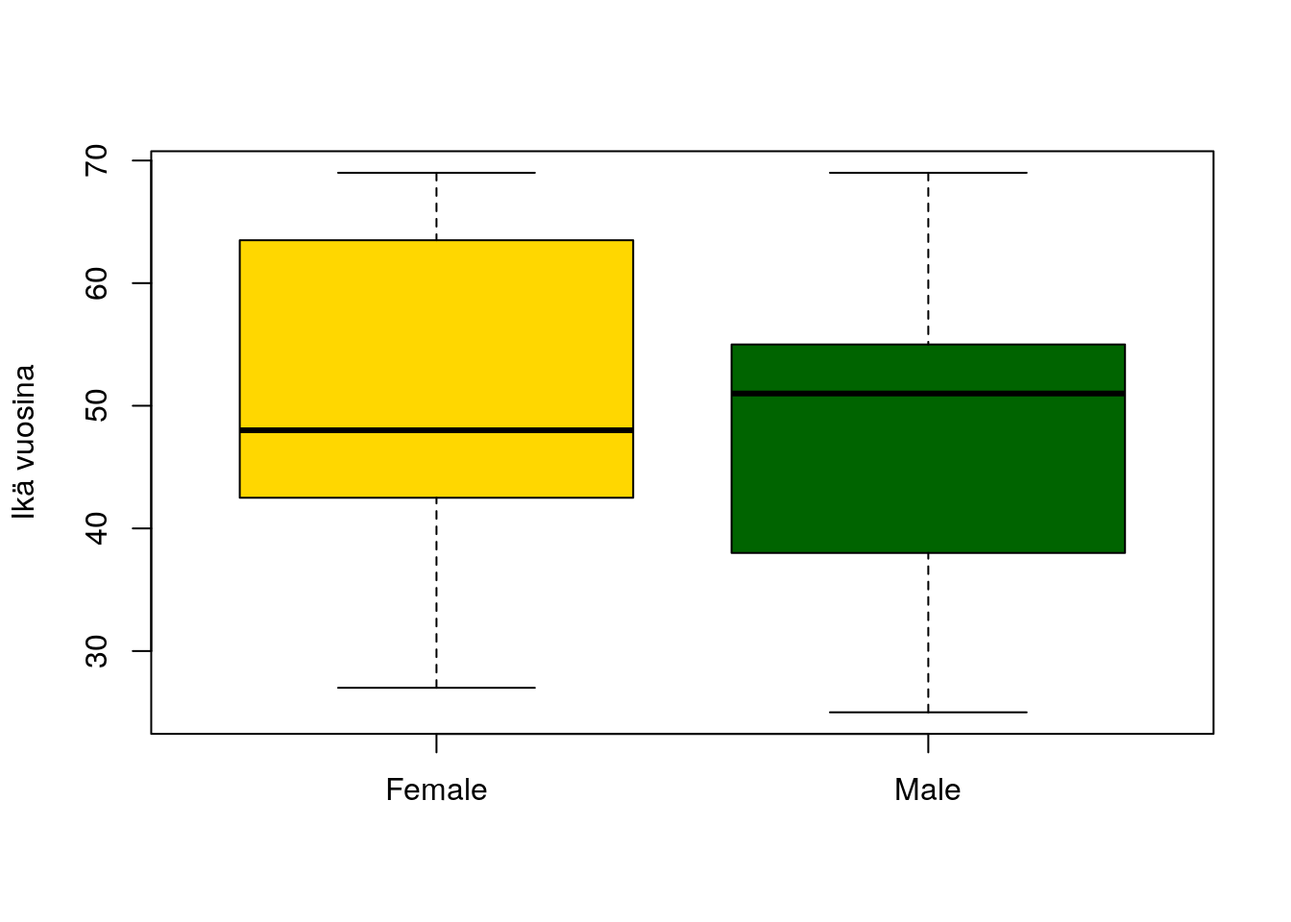
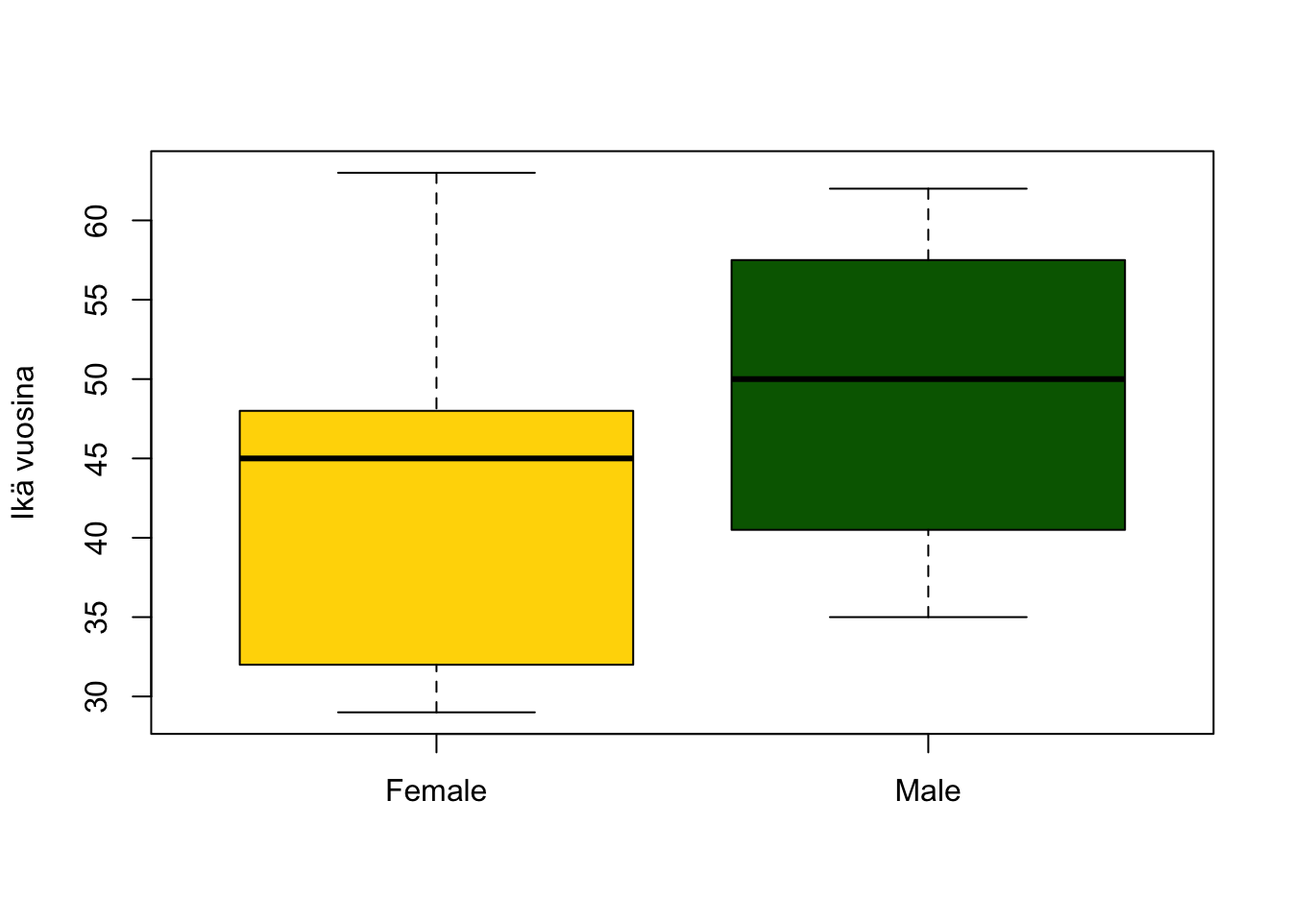
Minor fixes to texts

diff --git a/content/post/2020-10-29-hetu.fi.html b/content/post/2020-10-29-hetu.fi.html
@@ -4,9 +4,12 @@ author: Pyry Kantanen
 date: 2020-10-29
 slug: "hetu"
 categories:
+  - R package
   - R
 tags:
   - Finland
+  - national identification number
+  - personal identity code
 output:
   blogdown::html_page:
     highlight: tango
@@ -84,6 +87,7 @@ code span.wa { color: #8f5902; font-weight: bold; font-style: italic; } /* Warni
 <h2>Yleistä</h2>
 <p>Hetu-paketti on tarkoitettu suomalaisten henkilötunnusten algoritmiseen käsittelyyn. Paketista on erityisesti hyötyä, mikäli halutaan poimia informaatiota suuresta määrästä henkilötunnuksia, kuten tunnuksen haltijoiden iät tai sukupuolet. Henkilötunnusten käsittelyyn tarkoitettujen työkalujen kehitystyö alkoi osana sorvi-pakettia, mutta ne eriytettiin omaksi paketikseen vuonna 2013. Syksyllä 2020 hetu-paketti saatettiin julkaisukelpoiseen kuntoon ja se on saatavissa <a href="https://CRAN.R-project.org/package=hetu">CRANista</a>.</p>
 <p>Hetu-paketin esikuvana on toiminut <a href="https://CRAN.R-project.org/package=sweidnumbr">sweidnumbr-paketti</a> ja pakettien käyttämät funktiot on mahdollisuuksien mukaan nimetty samalla tavalla.<a href="#fn1" class="footnote-ref" id="fnref1"><sup>1</sup></a></p>
+<p>Tämä blogikirjoitus sisältää aluksi yleistietoa suomalaisista henkilötunnuksia. Pelkästään paketin toiminnoista kiinnostuneet voivat siirtyä suoraan <a href="#hetu-paketin-käyttö">käytännön esimerkkejä sisältävään osaan</a> tai tutustua hetu-paketin sisältämään vignette-ohjeeseen (komennolla ‘vignette(“hetu”)’).</p>
 </div>
 <div id="suomalainen-henkilötunnus" class="section level2">
 <h2>Suomalainen henkilötunnus</h2>
@@ -104,12 +108,12 @@ code span.wa { color: #8f5902; font-weight: bold; font-style: italic; } /* Warni
 <p>Henkilötunnuksen oikeellisuus määräytyy sen yksittäisten osien oikeellisuuden perusteella. Jos yksikin henkilötunnuksen osa on vääränlainen (esimerkiksi päivämäärä on muotoa 30/02/01 tai yksilönumero on 000 tai 001), henkilötunnuksessa on jonkinlainen virhe ja sen sisältämien tietojen luotettavuudesta ei voida olla varmoja. Käyttäjä voi halutessaan tulostaa hetu_diagnostic -funktiota käyttämällä diagnostisia tietoja henkilötunnusten yksittäisten osien, kuten päivämäärän, vuosisadan merkin, yksilönumeron, tarkistenumeron, tunnuksen pituuden ym. oikeellisuudesta.</p>
 <p>Hetu-paketti mahdollistaa satunnaisesti muodostettujen, tietylle aikavälille osuvien henkilötunnusten generoimisen rhetu-funktiolla. Paketin toiminnallisuuksien testaaminen onnistuu helposti ilman oikeilta ihmisiltä kerättyä aineistoa. Rhetu-funktio mahdollistaa myös ns. keinotekoisten tai väliaikaisten hetujen generoimisen. Keinotekoisia henkilötunnuksia on toisinaan myönnetty organisaatiokohtaisesti henkilöille, joilla ei ole ollut pysyvää suomalaista henkilötunnusta tai joiden henkilöllisyyttä ei ole pystytty varmentamaan. Keinotekoiset henkilötunnukset eroavat varsinaisista henkilötunnuksista siten, että niiden yksilönumero on välillä 900-999. Keinotekoisten henkilötunnusten generoiminen saattaa olla hyödyllistä, mikäli halutaan varmistua että aineistossa ei vahingossakaan ole aitoja henkilötunnuksia.</p>
 <p>Henkilötunnuksesta poimittua tietoa voidaan käyttää myös validoimaan ihmisten itse ilmoittamaa tietoa. Rhetu-funktio tuottaa pelkästään valideja henkilötunnuksia, mutta todellisessa aineistossa henkilötunnuksen kirjaamisessa tai tallentamisessa on saattanut tapahtua näppäily- tai lukuvirheitä. Hetu-pakettia voidaankin käyttää validoimaan ihmisistä tallennettujen tietojen laatua tai tehdä vertailua käyttäjien ilmoittamien syntymäaikojen ja henkilötunnuksen syntymäajan välillä.</p>
-<p>Suomalaisen henkilötunnuksen tarkistusmerkki on erilaisten lyöntivirheiden kannalta vikaherkkä. Esimerkiksi päivien, kuukausien ja vuosien järjestyksen vaihtuminen tai päivämäärän väärin merkitsemisen tarkistusmerkin pysyessä samana saa sen, että henkilötunnus ei enää mene läpi tarkistuksessa. Esimerkiksi ruotsalaisen henkilötunnuksen tapauksessa päivien ja kuukausien järjestyksen vaihtuminen ei vaikuta tarkistusmerkin laskentaan.</p>
-<div id="käytännön-esimerkkejä" class="section level3">
-<h3>Käytännön esimerkkejä</h3>
-<p>Paketin asentaminen R-ympäristöön:</p>
+<p>Suomalaisen henkilötunnuksen tarkistusmerkki on erilaisten lyöntivirheiden kannalta vikaherkkä. Esimerkiksi päivien, kuukausien ja vuosien järjestyksen vaihtuminen tai päivämäärän väärin merkitsemisen tarkistusmerkin pysyessä samana saa sen, että henkilötunnus ei enää mene läpi tarkistuksessa. Esimerkiksi ruotsalaisen henkilötunnuksen tapauksessa päivien ja kuukausien järjestyksen vaihtuminen ei vaikuta tarkistusmerkin laskentaan.<a href="#fn4" class="footnote-ref" id="fnref4"><sup>4</sup></a></p>
+<div id="hetu-paketin-käyttö" class="section level3">
+<h3>Hetu-paketin käyttö</h3>
+<p>Paketin asentaminen R-ympäristöön CRANista:</p>
 <div class="sourceCode" id="cb1"><pre class="sourceCode r"><code class="sourceCode r"><span id="cb1-1"><a href="#cb1-1" aria-hidden="true" tabindex="-1"></a><span class="fu">install.packages</span>(<span class="st">&quot;hetu&quot;</span>)</span></code></pre></div>
-<p>Paketin lataaminen kirjastoon ja 2 yksikön pituisen esimerkkivektorin asettaminen onnistuu seuraavanlaisesti:</p>
+<p>Paketin lataaminen kirjastoon ja 2 henkilötunnusta sisältävän esimerkkivektorin asettaminen:</p>
 <div class="sourceCode" id="cb2"><pre class="sourceCode r"><code class="sourceCode r"><span id="cb2-1"><a href="#cb2-1" aria-hidden="true" tabindex="-1"></a><span class="fu">library</span>(hetu)</span>
 <span id="cb2-2"><a href="#cb2-2" aria-hidden="true" tabindex="-1"></a>example_pins <span class="ot">&lt;-</span> <span class="fu">c</span>(<span class="st">&quot;010101-0101&quot;</span>, <span class="st">&quot;111111-111C&quot;</span>)</span></code></pre></div>
 <p>Perustietojen tarkastelu hetuja sisältävästä vektorista onnistuu yksinkertaisesti hetu-komennolla, joka tulostaa perusmuodossa data frame -tyyppisen taulukon. Taulukko on tässä esimerkissä muotoiltu hieman kauniimmaksi kable-funktiolla:</p>
@@ -181,20 +185,20 @@ code span.wa { color: #8f5902; font-weight: bold; font-style: italic; } /* Warni
 <div class="sourceCode" id="cb18"><pre class="sourceCode r"><code class="sourceCode r"><span id="cb18-1"><a href="#cb18-1" aria-hidden="true" tabindex="-1"></a>example_pins2 <span class="ot">&lt;-</span> <span class="fu">rhetu</span>(<span class="dv">5</span>, <span class="at">start =</span> <span class="st">&quot;1950-01-01&quot;</span>, <span class="at">end =</span> <span class="st">&quot;1995-05-07&quot;</span>)</span>
 <span id="cb18-2"><a href="#cb18-2" aria-hidden="true" tabindex="-1"></a><span class="co"># Ikä vuosina</span></span>
 <span id="cb18-3"><a href="#cb18-3" aria-hidden="true" tabindex="-1"></a><span class="fu">hetu_age</span>(example_pins2)</span></code></pre></div>
-<pre><code>## The age in years has been calculated at 2020-11-10.</code></pre>
-<pre><code>## [1] 27 66 46 49 33</code></pre>
+<pre><code>## The age in years has been calculated at 2020-11-24.</code></pre>
+<pre><code>## [1] 69 69 49 64 40</code></pre>
 <div class="sourceCode" id="cb21"><pre class="sourceCode r"><code class="sourceCode r"><span id="cb21-1"><a href="#cb21-1" aria-hidden="true" tabindex="-1"></a><span class="co"># Ikä kuukasina</span></span>
 <span id="cb21-2"><a href="#cb21-2" aria-hidden="true" tabindex="-1"></a><span class="fu">hetu_age</span>(example_pins2, <span class="at">timespan =</span> <span class="st">&quot;months&quot;</span>)</span></code></pre></div>
-<pre><code>## The age in months has been calculated at 2020-11-10.</code></pre>
-<pre><code>## [1] 324 801 560 598 399</code></pre>
+<pre><code>## The age in months has been calculated at 2020-11-24.</code></pre>
+<pre><code>## [1] 831 829 598 769 489</code></pre>
 <div class="sourceCode" id="cb24"><pre class="sourceCode r"><code class="sourceCode r"><span id="cb24-1"><a href="#cb24-1" aria-hidden="true" tabindex="-1"></a><span class="co"># Minkä ikäisiä hetujen omistajat olivat 2011 puolivälissä?</span></span>
 <span id="cb24-2"><a href="#cb24-2" aria-hidden="true" tabindex="-1"></a><span class="fu">hetu_age</span>(example_pins2, <span class="at">date =</span> <span class="st">&quot;2011-01-01&quot;</span>)</span></code></pre></div>
 <pre><code>## The age in years has been calculated at 2011-01-01.</code></pre>
-<pre><code>## [1] 17 56 36 39 23</code></pre>
+<pre><code>## [1] 59 59 39 54 30</code></pre>
 <div class="sourceCode" id="cb27"><pre class="sourceCode r"><code class="sourceCode r"><span id="cb27-1"><a href="#cb27-1" aria-hidden="true" tabindex="-1"></a><span class="co"># Visualisointi: laatikkojanakuvaaja sukupuolen mukaan ryhmiteltynä</span></span>
 <span id="cb27-2"><a href="#cb27-2" aria-hidden="true" tabindex="-1"></a>example_pins3 <span class="ot">&lt;-</span> <span class="fu">rhetu</span>(<span class="dv">20</span>, <span class="at">start =</span> <span class="st">&quot;1950-01-01&quot;</span>, <span class="at">end =</span> <span class="st">&quot;1995-05-07&quot;</span>, <span class="at">p.male =</span> <span class="fl">0.5</span>)</span>
 <span id="cb27-3"><a href="#cb27-3" aria-hidden="true" tabindex="-1"></a><span class="fu">boxplot</span>(<span class="fu">hetu_age</span>(example_pins3)<span class="sc">~</span><span class="fu">hetu_sex</span>(example_pins3), <span class="at">xlab =</span> <span class="st">&quot;&quot;</span>, <span class="at">ylab =</span> <span class="st">&quot;Ikä vuosina&quot;</span>, <span class="at">col=</span><span class="fu">c</span>(<span class="st">&quot;gold&quot;</span>, <span class="st">&quot;darkgreen&quot;</span>))</span></code></pre></div>
-<pre><code>## The age in years has been calculated at 2020-11-10.</code></pre>
+<pre><code>## The age in years has been calculated at 2020-11-24.</code></pre>
 <p><img src="/post/2020-10-29-hetu.fi_files/figure-html/unnamed-chunk-4-1.png" width="672" /></p>
 <p>Joissakin tapauksissa voi olla hyödyllistä tarkastella epävalidien hetujen diagnostiikkatietoa. Tiedot saadaan hetu_diagnostic -funktion avulla, jota demonstroimme monella tavalla virheellisen henkilötunnuksen avulla:</p>
 <div class="sourceCode" id="cb29"><pre class="sourceCode r"><code class="sourceCode r"><span id="cb29-1"><a href="#cb29-1" aria-hidden="true" tabindex="-1"></a><span class="fu">hetu_diagnostic</span>(<span class="st">&quot;321399-000G&quot;</span>)</span></code></pre></div>
@@ -210,22 +214,22 @@ code span.wa { color: #8f5902; font-weight: bold; font-style: italic; } /* Warni
 </div>
 <div id="yritys--ja-yhteisötunnusten-y-tunnus-käsittely" class="section level2">
 <h2>Yritys- ja yhteisötunnusten (Y-tunnus) käsittely</h2>
-<p>Hetu-paketissa on myös sweidnumbr-pakettia vastaavalla tavalla mahdollisuus generoida ja validoida suomalaisia yritys- ja yhteisötunnuksia. Suomalainen Y-tunnus koostuu seitsemästä numerosta, väliviivasta ja tarkistusmerkistä ja on muotoa 1234567-8.<a href="#fn4" class="footnote-ref" id="fnref4"><sup>4</sup></a> Y-tunnus on englanniksi Business Identity Code, mistä johtuen tässä paketissa y-tunnusten käsittelyyn tarkoitettujen funktioiden etuliitteenä käytetään lyhennettä bid:</p>
+<p>Hetu-paketissa on myös sweidnumbr-pakettia vastaavalla tavalla mahdollisuus generoida ja validoida suomalaisia yritys- ja yhteisötunnuksia. Suomalainen Y-tunnus koostuu seitsemästä numerosta, väliviivasta ja tarkistusmerkistä ja on muotoa 1234567-8.<a href="#fn5" class="footnote-ref" id="fnref5"><sup>5</sup></a> Y-tunnus on englanniksi Business Identity Code, mistä johtuen tässä paketissa y-tunnusten käsittelyyn tarkoitettujen funktioiden etuliitteenä käytetään lyhennettä bid:</p>
 <ul>
 <li>bid_ctrl(bid): tarkastaa y-tunnuksen oikeellisuuden, TRUE tai FALSE</li>
 <li>rbid(n): generoi n kappaletta y-tunnuksia</li>
 </ul>
 <div class="sourceCode" id="cb33"><pre class="sourceCode r"><code class="sourceCode r"><span id="cb33-1"><a href="#cb33-1" aria-hidden="true" tabindex="-1"></a>example_bids <span class="ot">&lt;-</span> <span class="fu">rbid</span>(<span class="dv">2</span>)</span>
 <span id="cb33-2"><a href="#cb33-2" aria-hidden="true" tabindex="-1"></a>example_bids</span></code></pre></div>
-<pre><code>## [1] &quot;2339722-3&quot; &quot;8805017-5&quot;</code></pre>
+<pre><code>## [1] &quot;4483397-9&quot; &quot;7613022-3&quot;</code></pre>
 <div class="sourceCode" id="cb35"><pre class="sourceCode r"><code class="sourceCode r"><span id="cb35-1"><a href="#cb35-1" aria-hidden="true" tabindex="-1"></a><span class="fu">bid_ctrl</span>(example_bids)</span></code></pre></div>
 <pre><code>## [1] TRUE TRUE</code></pre>
 <p>Toisin kuin henkilötunnusten tapauksessa, y-tunnuksista ei voida poimia mitään muuta lisäinformaatiota, esimerkiksi yrityksen perustamisajankohtaan tai toimialaan liittyen.</p>
 </div>
 <div id="henkilötunnusten-tulevaisuus-ja-tietoturvallisuus" class="section level2">
 <h2>Henkilötunnusten tulevaisuus ja tietoturvallisuus</h2>
-<p>Henkilötunnusten uudistamisesta on käyty viime vuosina runsaasti julkista keskustelua. Nykymuotoisen henkilötunnuksen ongelmana on pidetty esimerkiksi henkilötunnusten rajallista määrää sekä sitä, että henkilötunnuksesta ilmenee henkilötietoja kuten sukupuoli ja ikä. Toisaalta uudistusta vastaan puhuu julkisen ja yksityisen sektorin toimijoiden tietojärjestelmien päivitysten korkeat kustannukset. Kirjoitushetkellä tuoreimman ehdotuksen mukaan henkilötunnukset olisivat säilymässä tulevaisuudessakin muodoltaan nykyisiä vastaavina sillä erotuksella, että jatkossa vapaana olevat parilliset ja parittomat yksilönumerot jaettaisiin tasaisesti molemmille sukupuolille.<a href="#fn5" class="footnote-ref" id="fnref5"><sup>5</sup></a> <a href="#fn6" class="footnote-ref" id="fnref6"><sup>6</sup></a></p>
-<p>Tietosuojaperiaatteen mukaan henkilötietoja tulisi kerätä ja käsitellä ainoastaan siinä laajuudessa, mikä on tarkoituksenmukaista tai välttämätöntä palvelun käyttötarkoituksen kannalta.<a href="#fn7" class="footnote-ref" id="fnref7"><sup>7</sup></a> Tätä taustaa vasten voidaan pitää ongelmallisena, että henkilötunnusten laajamittainen käyttö aiheuttaa vähintäänkin epäsuorasti tilanteen, jossa palvelun tarjoajalla on usein tarpeettomasti hallussaan tietoa käyttäjien iästä ja sukupuolesta.</p>
+<p>Henkilötunnusten uudistamisesta on käyty viime vuosina runsaasti julkista keskustelua. Nykymuotoisen henkilötunnuksen ongelmana on pidetty esimerkiksi henkilötunnusten rajallista määrää sekä sitä, että henkilötunnuksesta ilmenee henkilötietoja kuten sukupuoli ja ikä. Toisaalta uudistusta vastaan puhuu julkisen ja yksityisen sektorin toimijoiden tietojärjestelmien päivitysten korkeat kustannukset. Kirjoitushetkellä tuoreimman ehdotuksen mukaan henkilötunnukset olisivat säilymässä tulevaisuudessakin muodoltaan nykyisiä vastaavina sillä erotuksella, että jatkossa vapaana olevat parilliset ja parittomat yksilönumerot jaettaisiin tasaisesti molemmille sukupuolille.<a href="#fn6" class="footnote-ref" id="fnref6"><sup>6</sup></a> <a href="#fn7" class="footnote-ref" id="fnref7"><sup>7</sup></a></p>
+<p>Tietosuojaperiaatteen mukaan henkilötietoja tulisi kerätä ja käsitellä ainoastaan siinä laajuudessa, mikä on tarkoituksenmukaista tai välttämätöntä palvelun käyttötarkoituksen kannalta.<a href="#fn8" class="footnote-ref" id="fnref8"><sup>8</sup></a> Tätä taustaa vasten voidaan pitää ongelmallisena, että henkilötunnusten laajamittainen käyttö aiheuttaa vähintäänkin epäsuorasti tilanteen, jossa palvelun tarjoajalla on usein tarpeettomasti hallussaan tietoa käyttäjien iästä ja sukupuolesta.</p>
 <p>Käytännössä suuremmat ongelmat koituvat ihmisille kuitenkin tavasta, jolla henkilötunnuksia käytetään suomalaisessa yhteiskunnassa. Vaikka henkilötunnus ei teoriassa ole salassapidettävää tietoa, rikollisella tai muutoin vilpillisellä tavalla toimiva henkilö voi aiheuttaa monenlaista haittaa, mikäli hän saa haltuunsa toisen ihmisen henkilötunnuksen. Henkilötunnusta on saatettu kysyä puhelimitse asioivalta henkilöltä henkilöllisyyden varmistukseksi, ennen kuin hänelle on kerrottu sensitiivisiä potilastietoja. Joskus henkilötunnus saatetaan asettaa verkkopalvelussa uuden käyttäjän ensimmäiseksi salasanaksi, joka jokaisen pitäisi muistaa vaihtaa ensimmäisen kirjautumiskerran jälkeen. On itsestään selvää, että tällaiset käytännöt eivät ole yksilöiden tietosuojan kannalta hyödyllisiä.</p>
 <p>Henkilötunnusten epätarkoituksenmukainen käyttö julkisella ja yksityisellä sektorilla on varmasti osaltaan vaikuttanut kansalaisten keskuudessa syntyneisiin käsityksiin henkilötunnusten luonteesta ja tarkoituksesta. Olisi toivottavaa, että viimeistään syksyn 2020 tietovuodot toimisivat sysäyksenä tietoturvallisempien käytäntöjen käyttöönottoon kaikkialla yhteiskunnassa.</p>
 </div>
@@ -235,12 +239,13 @@ code span.wa { color: #8f5902; font-weight: bold; font-style: italic; } /* Warni
 <div class="footnotes">
 <hr />
 <ol>
-<li id="fn1"><p>Lisätietoja sweidnumbr-paketista esim. tästä blogikirjoituksesta: Magnusson, Måns &amp; Bülow, Erik. 2015. R made personal (at least for swedes)!. URL: <a href="http://ropengov.org/2015/08/r-made-personal-at-least-for-swedes/" class="uri">http://ropengov.org/2015/08/r-made-personal-at-least-for-swedes/</a><a href="#fnref1" class="footnote-back">↩</a></p></li>
+<li id="fn1"><p>Lisätietoja sweidnumbr-paketista esim. tästä blogikirjoituksesta: Magnusson, Måns &amp; Bülow, Erik. 2015. R made personal (at least for swedes)!. URL: <a href="https://ropengov.org/2015/08/r-made-personal-at-least-for-swedes/" class="uri">https://ropengov.org/2015/08/r-made-personal-at-least-for-swedes/</a><a href="#fnref1" class="footnote-back">↩</a></p></li>
 <li id="fn2"><p>Digi- ja väestötietovirasto. Henkilötunnus. URL: <a href="https://dvv.fi/henkilotunnus" class="uri">https://dvv.fi/henkilotunnus</a><a href="#fnref2" class="footnote-back">↩</a></p></li>
 <li id="fn3"><p>Ks. esim. Finlex. HE 59/2013. URL: <a href="https://www.finlex.fi/fi/esitykset/he/2013/20130059" class="uri">https://www.finlex.fi/fi/esitykset/he/2013/20130059</a><a href="#fnref3" class="footnote-back">↩</a></p></li>
-<li id="fn4"><p>Yritys- ja yhteisötietojärjestelmä. Y-tunnus. URL: <a href="https://www.ytj.fi/index/y-tunnus.html" class="uri">https://www.ytj.fi/index/y-tunnus.html</a><a href="#fnref4" class="footnote-back">↩</a></p></li>
-<li id="fn5"><p>Tuomas Salsteen nettisivuilta löytyy hyvä selvitys henkilötunnuksen historiasta, ongelmakohdista että uudistustyöryhmän kehitysehdotuksista. URL: <a href="https://www.tuomas.salste.net/doc/hetu/tunnus.html" class="uri">https://www.tuomas.salste.net/doc/hetu/tunnus.html</a>.<a href="#fnref5" class="footnote-back">↩</a></p></li>
-<li id="fn6"><p>Yle Uutiset. 2020. Uusi henkilötunnus kaikille Suomen kansalaisille ja Suomessa asuville, ehdottaa työryhmä – jatkossa tunnuksesta ei selviäisi ikä, syntymäaika tai sukupuoli. Julkaistu 8.4.2020, viitattu 23.10.2020. URL: <a href="https://yle.fi/uutiset/3-11299218" class="uri">https://yle.fi/uutiset/3-11299218</a><a href="#fnref6" class="footnote-back">↩</a></p></li>
-<li id="fn7"><p>Tietosuojavaltuutetun toimisto. Käyttötarkoitussidonnaisuus. Viitattu 26.10.2020. <a href="https://tietosuoja.fi/kayttotarkoitussidonnaisuus" class="uri">https://tietosuoja.fi/kayttotarkoitussidonnaisuus</a><a href="#fnref7" class="footnote-back">↩</a></p></li>
+<li id="fn4"><p>Teppo Vuoren nettisivuilta löytyy kattavasti erilaisten tarkistusmerkkien laskentamenetelmien kuvaukset: <a href="https://tarkistusmerkit.teppovuori.fi/tarkmerk.htm" class="uri">https://tarkistusmerkit.teppovuori.fi/tarkmerk.htm</a><a href="#fnref4" class="footnote-back">↩</a></p></li>
+<li id="fn5"><p>Yritys- ja yhteisötietojärjestelmä. Y-tunnus. URL: <a href="https://www.ytj.fi/index/y-tunnus.html" class="uri">https://www.ytj.fi/index/y-tunnus.html</a><a href="#fnref5" class="footnote-back">↩</a></p></li>
+<li id="fn6"><p>Tuomas Salsteen nettisivuilta löytyy hyvä selvitys henkilötunnuksen historiasta, ongelmakohdista että uudistustyöryhmän kehitysehdotuksista. URL: <a href="https://www.tuomas.salste.net/doc/hetu/tunnus.html" class="uri">https://www.tuomas.salste.net/doc/hetu/tunnus.html</a>.<a href="#fnref6" class="footnote-back">↩</a></p></li>
+<li id="fn7"><p>Yle Uutiset. 2020. Uusi henkilötunnus kaikille Suomen kansalaisille ja Suomessa asuville, ehdottaa työryhmä – jatkossa tunnuksesta ei selviäisi ikä, syntymäaika tai sukupuoli. Julkaistu 8.4.2020, viitattu 23.10.2020. URL: <a href="https://yle.fi/uutiset/3-11299218" class="uri">https://yle.fi/uutiset/3-11299218</a><a href="#fnref7" class="footnote-back">↩</a></p></li>
+<li id="fn8"><p>Tietosuojavaltuutetun toimisto. Käyttötarkoitussidonnaisuus. Viitattu 26.10.2020. <a href="https://tietosuoja.fi/kayttotarkoitussidonnaisuus" class="uri">https://tietosuoja.fi/kayttotarkoitussidonnaisuus</a><a href="#fnref8" class="footnote-back">↩</a></p></li>
 </ol>
 </div>

diff --git a/content/post/2020-10-29-hetu.en.html b/content/post/2020-10-29-hetu.en.html
@@ -4,9 +4,12 @@ author: Pyry Kantanen
 date: 2020-10-29
 slug: "hetu"
 categories:
+  - R package
   - R
 tags:
   - Finland
+  - national identification number
+  - personal identity code
 output:
   blogdown::html_page:
     highlight: tango
@@ -93,22 +96,22 @@ code span.wa { color: #8f5902; font-weight: bold; font-style: italic; } /* Warni
 </div>
 <div id="algorithmic-handling-of-hetu-pins" class="section level2">
 <h2>Algorithmic handling of hetu-pins</h2>
-<p>Analyzing and extracting Finnish personal identity numbers is rather straightforward even with a naked eye. However, hetu-package is best suited for handling large number of PINs, which would be cumbersome by hand.</p>
-<p>Hetu-package can extract the following information from hundreds of thousands of PINs:</p>
+<p>Analyzing and extracting information from Finnish personal identity numbers is rather straightforward even with a naked eye. Hetu-package naturally excels in handling large number of PINs, which would be cumbersome otherwise.</p>
+<p>Hetu-package has functions to extract the following information:</p>
 <ul>
 <li>hetu_date / pin_date: date of birth</li>
 <li>hetu_sex / pin_sex: sex, Male or Female</li>
 <li>hetu_age / pin_age: age in years, months or days (at the time of the query or at a desired date)</li>
 <li>hetu_ctrl / pin_ctrl: validity check for the PIN, TRUE or FALSE</li>
 </ul>
-<div id="practical-examples" class="section level3">
-<h3>Practical examples</h3>
-<p>Installing the package in R:</p>
+<div id="use-of-hetu-package" class="section level3">
+<h3>Use of hetu-package</h3>
+<p>Installing the package in R from CRAN:</p>
 <div class="sourceCode" id="cb1"><pre class="sourceCode r"><code class="sourceCode r"><span id="cb1-1"><a href="#cb1-1" aria-hidden="true" tabindex="-1"></a><span class="fu">install.packages</span>(<span class="st">&quot;hetu&quot;</span>)</span></code></pre></div>
-<p>Loading the package and setting a few imaginary example PINs:</p>
+<p>Loading the package and setting a few imaginary PINs for testing:</p>
 <div class="sourceCode" id="cb2"><pre class="sourceCode r"><code class="sourceCode r"><span id="cb2-1"><a href="#cb2-1" aria-hidden="true" tabindex="-1"></a><span class="fu">library</span>(hetu)</span>
 <span id="cb2-2"><a href="#cb2-2" aria-hidden="true" tabindex="-1"></a>example_pins <span class="ot">&lt;-</span> <span class="fu">c</span>(<span class="st">&quot;010101-0101&quot;</span>, <span class="st">&quot;111111-111C&quot;</span>)</span></code></pre></div>
-<p>Hetu-function is the backbone of the package and lots of information can be extracted in data frame format:</p>
+<p>Hetu-function is the backbone of the package and majority of the information that can be extracted is available as a simple data frame:</p>
 <div class="sourceCode" id="cb3"><pre class="sourceCode r"><code class="sourceCode r"><span id="cb3-1"><a href="#cb3-1" aria-hidden="true" tabindex="-1"></a>knitr<span class="sc">::</span><span class="fu">kable</span>(<span class="fu">hetu</span>(example_pins))</span></code></pre></div>
 <table>
 <thead>
@@ -152,7 +155,7 @@ code span.wa { color: #8f5902; font-weight: bold; font-style: italic; } /* Warni
 </tr>
 </tbody>
 </table>
-<p>The information in the data frame can be extracted with extract-parameter or, for the convenience of the end user, by using specialized functions:</p>
+<p>There are several alternatives in extracting specific information about a group of PINs, for example date of birth. If the output of the hetu-function is saved as an object, all columns can be normally subsetted. For the convenience of the end user, the information in the data frame can also be extracted by using extract-parameter in the hetu-function or by using one of the specialized functions:</p>
 <div class="sourceCode" id="cb4"><pre class="sourceCode r"><code class="sourceCode r"><span id="cb4-1"><a href="#cb4-1" aria-hidden="true" tabindex="-1"></a><span class="co"># Extracting sex</span></span>
 <span id="cb4-2"><a href="#cb4-2" aria-hidden="true" tabindex="-1"></a><span class="fu">hetu</span>(example_pins, <span class="at">extract =</span> <span class="st">&quot;sex&quot;</span>)</span></code></pre></div>
 <pre><code>## [1] &quot;Female&quot; &quot;Male&quot;</code></pre>
@@ -171,24 +174,24 @@ code span.wa { color: #8f5902; font-weight: bold; font-style: italic; } /* Warni
 <div class="sourceCode" id="cb16"><pre class="sourceCode r"><code class="sourceCode r"><span id="cb16-1"><a href="#cb16-1" aria-hidden="true" tabindex="-1"></a><span class="co"># Information that can be extracted only with extract-parameter</span></span>
 <span id="cb16-2"><a href="#cb16-2" aria-hidden="true" tabindex="-1"></a><span class="fu">hetu</span>(example_pins, <span class="at">extract =</span> <span class="st">&quot;p.num&quot;</span>)</span></code></pre></div>
 <pre><code>## [1] &quot;010&quot; &quot;111&quot;</code></pre>
-<p>Extracting age works only with a specialized function. In this example we will also introduce the ability to generate random PINs with rhetu-function:</p>
+<p>In contrast to other information, extracting age works only with a specialized function. In this example we will also introduce the ability to generate random PINs with rhetu-function:</p>
 <div class="sourceCode" id="cb18"><pre class="sourceCode r"><code class="sourceCode r"><span id="cb18-1"><a href="#cb18-1" aria-hidden="true" tabindex="-1"></a>example_pins2 <span class="ot">&lt;-</span> <span class="fu">rhetu</span>(<span class="dv">5</span>, <span class="at">start =</span> <span class="st">&quot;1950-01-01&quot;</span>, <span class="at">end =</span> <span class="st">&quot;1995-05-07&quot;</span>)</span>
 <span id="cb18-2"><a href="#cb18-2" aria-hidden="true" tabindex="-1"></a><span class="co"># Age in years</span></span>
 <span id="cb18-3"><a href="#cb18-3" aria-hidden="true" tabindex="-1"></a><span class="fu">hetu_age</span>(example_pins2)</span></code></pre></div>
-<pre><code>## The age in years has been calculated at 2020-11-10.</code></pre>
-<pre><code>## [1] 46 53 41 33 69</code></pre>
+<pre><code>## The age in years has been calculated at 2020-11-24.</code></pre>
+<pre><code>## [1] 59 62 30 48 26</code></pre>
 <div class="sourceCode" id="cb21"><pre class="sourceCode r"><code class="sourceCode r"><span id="cb21-1"><a href="#cb21-1" aria-hidden="true" tabindex="-1"></a><span class="co"># Age in months</span></span>
 <span id="cb21-2"><a href="#cb21-2" aria-hidden="true" tabindex="-1"></a><span class="fu">hetu_age</span>(example_pins2, <span class="at">timespan =</span> <span class="st">&quot;months&quot;</span>)</span></code></pre></div>
-<pre><code>## The age in months has been calculated at 2020-11-10.</code></pre>
-<pre><code>## [1] 558 639 499 406 833</code></pre>
+<pre><code>## The age in months has been calculated at 2020-11-24.</code></pre>
+<pre><code>## [1] 712 754 363 583 322</code></pre>
 <div class="sourceCode" id="cb24"><pre class="sourceCode r"><code class="sourceCode r"><span id="cb24-1"><a href="#cb24-1" aria-hidden="true" tabindex="-1"></a><span class="co"># Age in 2011</span></span>
 <span id="cb24-2"><a href="#cb24-2" aria-hidden="true" tabindex="-1"></a><span class="fu">hetu_age</span>(example_pins2, <span class="at">date =</span> <span class="st">&quot;2011-01-01&quot;</span>)</span></code></pre></div>
 <pre><code>## The age in years has been calculated at 2011-01-01.</code></pre>
-<pre><code>## [1] 36 43 31 23 59</code></pre>
+<pre><code>## [1] 49 52 20 38 16</code></pre>
 <div class="sourceCode" id="cb27"><pre class="sourceCode r"><code class="sourceCode r"><span id="cb27-1"><a href="#cb27-1" aria-hidden="true" tabindex="-1"></a><span class="co"># Visualization: boxplot grouped by sex</span></span>
 <span id="cb27-2"><a href="#cb27-2" aria-hidden="true" tabindex="-1"></a>example_pins3 <span class="ot">&lt;-</span> <span class="fu">rhetu</span>(<span class="dv">20</span>, <span class="at">start =</span> <span class="st">&quot;1950-01-01&quot;</span>, <span class="at">end =</span> <span class="st">&quot;1995-05-07&quot;</span>, <span class="at">p.male =</span> <span class="fl">0.5</span>)</span>
 <span id="cb27-3"><a href="#cb27-3" aria-hidden="true" tabindex="-1"></a><span class="fu">boxplot</span>(<span class="fu">hetu_age</span>(example_pins3)<span class="sc">~</span><span class="fu">hetu_sex</span>(example_pins3), <span class="at">xlab =</span> <span class="st">&quot;&quot;</span>, <span class="at">ylab =</span> <span class="st">&quot;Age in years&quot;</span>, <span class="at">col=</span><span class="fu">c</span>(<span class="st">&quot;cyan&quot;</span>, <span class="st">&quot;magenta&quot;</span>))</span></code></pre></div>
-<pre><code>## The age in years has been calculated at 2020-11-10.</code></pre>
+<pre><code>## The age in years has been calculated at 2020-11-24.</code></pre>
 <p><img src="/post/2020-10-29-hetu.en_files/figure-html/unnamed-chunk-4-1.png" width="672" /></p>
 <p>In some cases diagnostics information for invalid PINs might be useful:</p>
 <div class="sourceCode" id="cb29"><pre class="sourceCode r"><code class="sourceCode r"><span id="cb29-1"><a href="#cb29-1" aria-hidden="true" tabindex="-1"></a><span class="fu">hetu_diagnostic</span>(<span class="st">&quot;321399-000G&quot;</span>)</span></code></pre></div>
@@ -211,7 +214,7 @@ code span.wa { color: #8f5902; font-weight: bold; font-style: italic; } /* Warni
 </ul>
 <div class="sourceCode" id="cb33"><pre class="sourceCode r"><code class="sourceCode r"><span id="cb33-1"><a href="#cb33-1" aria-hidden="true" tabindex="-1"></a>example_bids <span class="ot">&lt;-</span> <span class="fu">rbid</span>(<span class="dv">2</span>)</span>
 <span id="cb33-2"><a href="#cb33-2" aria-hidden="true" tabindex="-1"></a>example_bids</span></code></pre></div>
-<pre><code>## [1] &quot;3112390-0&quot; &quot;0952731-9&quot;</code></pre>
+<pre><code>## [1] &quot;7282312-9&quot; &quot;9772390-9&quot;</code></pre>
 <div class="sourceCode" id="cb35"><pre class="sourceCode r"><code class="sourceCode r"><span id="cb35-1"><a href="#cb35-1" aria-hidden="true" tabindex="-1"></a><span class="fu">bid_ctrl</span>(example_bids)</span></code></pre></div>
 <pre><code>## [1] TRUE TRUE</code></pre>
 <p>No additional information can be extracted from BIDs.</p>
@@ -222,7 +225,7 @@ code span.wa { color: #8f5902; font-weight: bold; font-style: italic; } /* Warni
 <div class="footnotes">
 <hr />
 <ol>
-<li id="fn1"><p>More information about sweidnumbr can be found e.g. from this blogpost: Magnusson, Mans &amp; Bulow, Erik. 2015. R made personal (at least for swedes)!. URL: <a href="http://ropengov.org/2015/08/r-made-personal-at-least-for-swedes/" class="uri">http://ropengov.org/2015/08/r-made-personal-at-least-for-swedes/</a><a href="#fnref1" class="footnote-back">↩</a></p></li>
+<li id="fn1"><p>More information about sweidnumbr can be found e.g. from this blogpost: Magnusson, Mans &amp; Bulow, Erik. 2015. R made personal (at least for swedes)!. URL: <a href="https://ropengov.org/2015/08/r-made-personal-at-least-for-swedes/" class="uri">https://ropengov.org/2015/08/r-made-personal-at-least-for-swedes/</a><a href="#fnref1" class="footnote-back">↩</a></p></li>
 <li id="fn2"><p>Digital and Population Data Services Agency (Digi- ja väestötietovirasto). The personal identity code. URL: <a href="https://dvv.fi/en/personal-identity-code" class="uri">https://dvv.fi/en/personal-identity-code</a><a href="#fnref2" class="footnote-back">↩</a></p></li>
 <li id="fn3"><p>Finnish Patent and Registration Office. The Business Information System (BIS). URL: <a href="https://www.prh.fi/en/kaupparekisteri/rekisterointipalvelut/ytj.html" class="uri">https://www.prh.fi/en/kaupparekisteri/rekisterointipalvelut/ytj.html</a><a href="#fnref3" class="footnote-back">↩</a></p></li>
 </ol>
